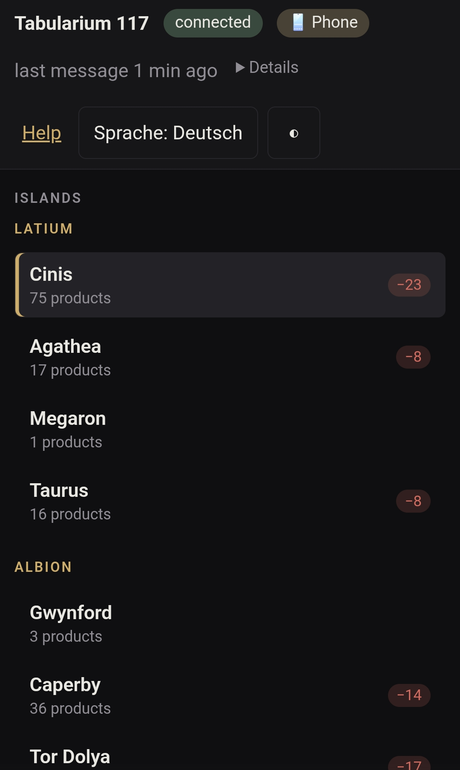
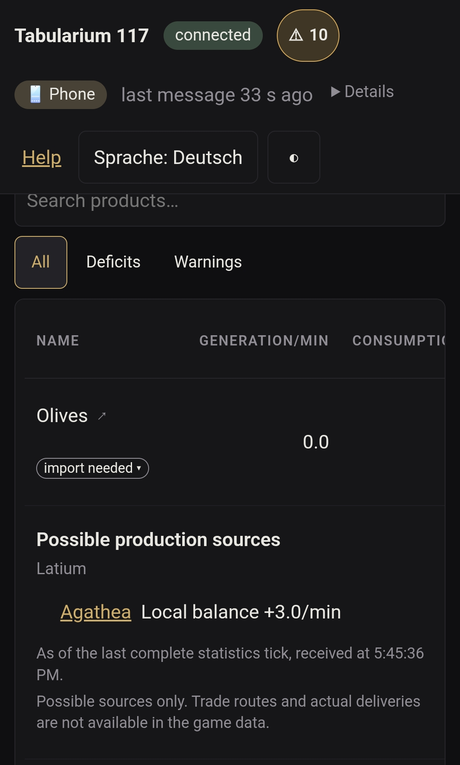
Tabularium 117 0.1.0-beta.4 (#7)
Moves the unreleased changes under 0.1.0-beta.4: productivity warnings that
follow the buildings' productivity and need a negative local balance, goods
without local production as quiet "import needed" entries, the possible
production sources for them, and the efficiency view's reasons for idle
buildings.

The README screenshots are new, taken from a running game with this
version: the goods table with two sources lists opened, the efficiency
view, and the phone view with a sources list. The phone picture is cropped
below the phone's status bar and scaled to 460 px like the previous one.

diff --git a/README.md b/README.md
@@ -55,10 +55,10 @@ gegenüber dem Spiel.
 5. **Handy-Modus** – per Schalter im UI einschaltbar, zeigt einen QR-Code mit
    der Adresse im eigenen Netzwerk.
 
-![Insel-Übersicht mit Warenliste](docs/screenshots/overview.png)
+![Insel-Übersicht mit Warenliste und aufgeklappten möglichen Produktionsquellen](docs/screenshots/overview.png)
 ![Effizienz-Ansicht: Produktion gegen Potenzial](docs/screenshots/efficiency.png)
 ![Verlauf einer Ware über die letzte Stunde](docs/screenshots/history.png)
-![Handy-Ansicht mit Inselliste](docs/screenshots/phone.png)
+![Handy-Ansicht: Warenliste mit möglichen Produktionsquellen](docs/screenshots/phone.png)
 
 *Alle Bilder stammen aus einem laufenden Spiel mit dem aktuellen
 Entwicklungsstand.*
@@ -317,10 +317,10 @@ step, no Docker, no mod, strictly read-only towards the game.
 5. **Phone mode** – a switch in the UI shows a QR code with the address on
    your own network.
 
-![Island overview with the goods list](docs/screenshots/overview.png)
+![Island overview with the goods list and possible production sources opened](docs/screenshots/overview.png)
 ![Efficiency view: generation against potential](docs/screenshots/efficiency.png)
 ![History of one good over the last hour](docs/screenshots/history.png)
-![Phone view with the island list](docs/screenshots/phone.png)
+![Phone view: goods list with possible production sources](docs/screenshots/phone.png)
 
 *All screenshots come from a running game with the current development
 version.*

diff --git a/CHANGELOG.md b/CHANGELOG.md
@@ -5,6 +5,12 @@ All notable changes to Tabularium 117 are documented here, in the
 
 ## [Unreleased]
 
+## [0.1.0-beta.4] - 2026-09-24
+
+Fourth beta: fewer and better warnings, and possible production sources for
+goods an island needs but does not produce. Testers: please download the new
+`tabularium117.exe` - the app does not update itself.
+
 ### Added
 
 - **Possible production sources** for goods marked "import needed"
@@ -54,6 +60,8 @@ All notable changes to Tabularium 117 are documented here, in the
 - The "import needed" tag is now a button: it opens the possible production
   sources below the row, and on a touch screen its tap area is 44 px high
   while the tag keeps its size.
+- The README screenshots show the current version: the goods table and the
+  phone view with possible production sources, and the efficiency view.
 
 ## [0.1.0-beta.3] - 2026-09-23
 
